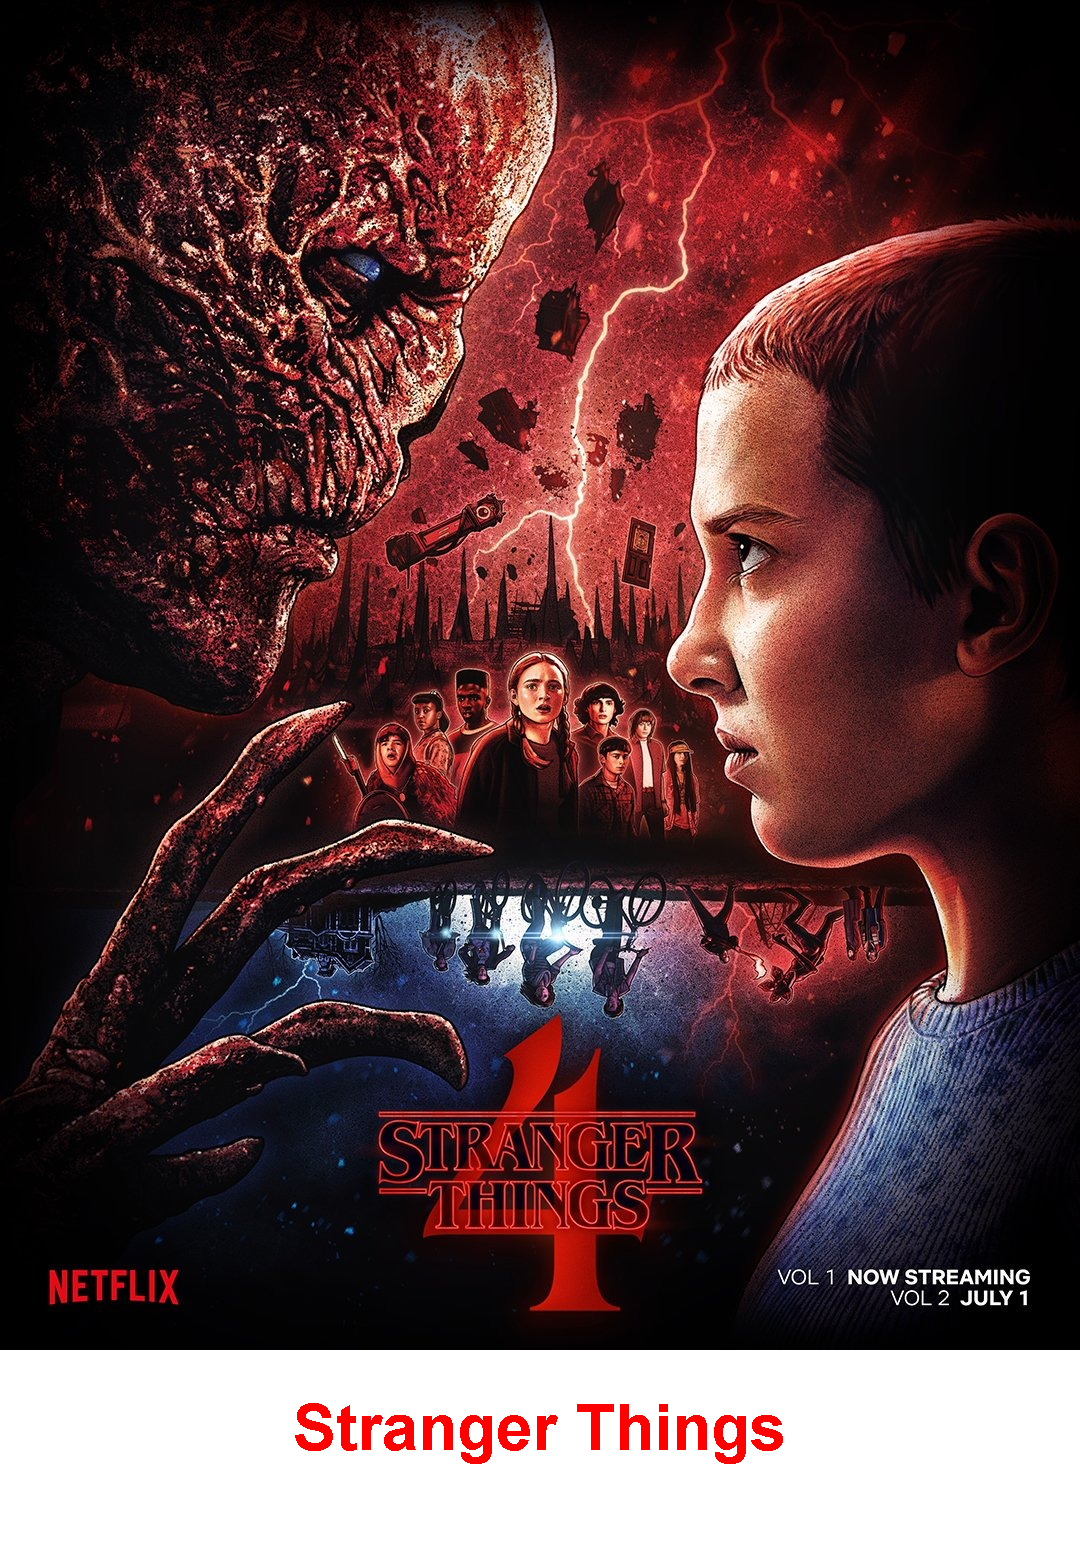
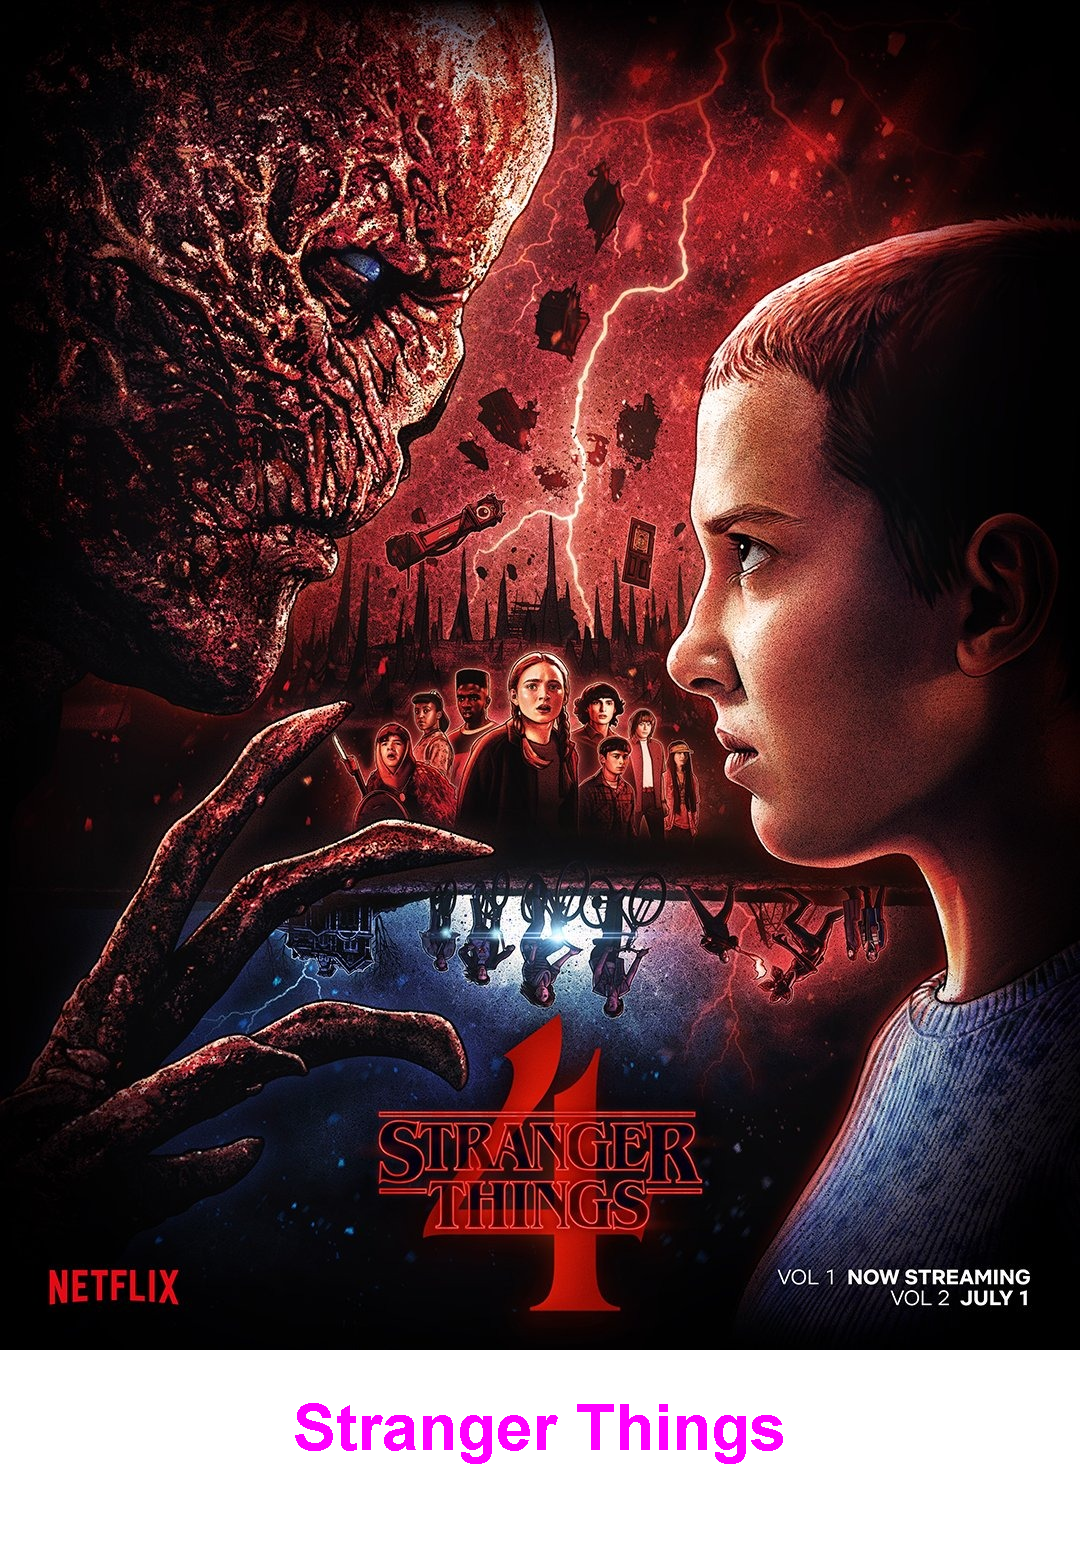
Update Aula 03 - OOP

Changed region(s): [[0.275, 0.8981, 0.7333, 0.96]]

diff --git a/src/App.java b/src/App.java
@@ -1,46 +1,43 @@
 import java.io.InputStream;
 import java.net.URL;
 import java.util.List;
-import java.util.Map;
 
 public class App {
     public static void main(String[] args) throws Exception {
         
-        String url = "https://raw.githubusercontent.com/alura-cursos/imersao-java-2-api/main/MostPopularTVs.json";
+        //String url = "https://raw.githubusercontent.com/alura-cursos/imersao-java-2-api/main/MostPopularTVs.json";
+        //String apiName = "IMDB";
+        String url = "https://raw.githubusercontent.com/alura-cursos/imersao-java-2-api/main/NASA-APOD.json";
+        String apiName = "NASA";
 
         // Conexão HTTP para buscar dados na API
-        var httpClient = new ClientHttp();
+        ClientHttp httpClient = new ClientHttp();
         String resquestedData = httpClient.requestData(url);
     
-        // Extrair dados desejados (título, poster, classificação)
-        JsonParser jsonParser = new JsonParser();
-        List<Map<String, String>> contentList = jsonParser.parse(resquestedData);
+        // Extrair dados desejados (título, imagem)
+        ContentExtractor extractor = new ContentExtractor();
+        List<Content> contents = extractor.extractContents(resquestedData, apiName);
 
         // Manipular e exibir os dados
 
         StickerGenerator stickerGenerator = new StickerGenerator();
 
-        for (Map<String,String> content : contentList) {
+        for (int i = 0; i < contents.size(); i++)
+        {
+            Content content = contents.get(i);
 
-            var rating = Float.parseFloat(content.get("imDbRating"));
-			String star = "";
-			for (int i = 0; i < rating; i++) {
-				star += "⭐";
-			}
-            
-            System.out.println(content.get("title"));
-            System.out.println(content.get("image"));
-            System.out.println(String.format("Rating: %.1f %s", rating, star));
+            System.out.println(content.getTitle());
+            System.out.println(content.getImageURL());
 
             // Gerar Sticker
-            String imageURL = (content.get("image"));
-            String stickerName = ((content.get("rank")) + "_" + (content.get("title")))
-                .replaceAll("\\s+","");
+            String imageURL = (content.getImageURL());
+            String stickerName = (i + 1) + "_" + ((content.getTitle())
+                .replaceAll("[^a-zA-Z]","")
+                .trim());
             InputStream imageInputStream = new URL(imageURL).openStream();;
-            String strickerText = (content.get("title"));
+            String strickerText = (content.getTitle());
 
-            stickerGenerator.create(stickerName, imageInputStream, strickerText);
-
+            stickerGenerator.create(stickerName, imageInputStream, strickerText, apiName);
         }
     }
 }

diff --git a/src/StickerGenerator.java b/src/StickerGenerator.java
@@ -14,7 +14,7 @@ import javax.imageio.ImageIO;
 
 public class StickerGenerator {
 
-    public void create(String stickerName, InputStream imageInputStream, String strickerText) throws IOException {
+    public void create(String stickerName, InputStream imageInputStream, String strickerText, String apiName) throws IOException {
 
         // leitura da imagem da URL
             //InputStream inputStream = 
@@ -32,20 +32,29 @@ public class StickerGenerator {
         Graphics2D graphics = (Graphics2D) newImage.getGraphics();
         graphics.drawImage(image, 0, 0, null);
 
+        // copiar "me.png" para nova imagem
+        BufferedImage imageMe = ImageIO.read(new File("src/assets/img/me.png"));
+        int yPositionMe = (imageHeight - imageMe.getHeight());
+        graphics.drawImage(imageMe, 0, yPositionMe, null);
+
         // configurar fonte
         Font strickerFont = new Font(Font.SANS_SERIF, Font.BOLD, 64);
-        graphics.setColor(Color.RED);
+        graphics.setColor(Color.MAGENTA);
         graphics.setFont(strickerFont);
 
         // escrever na nova imagem
         FontMetrics fm = graphics.getFontMetrics();
+        if(fm.stringWidth(strickerText) > imageWidth){
+            graphics.setFont(new Font(Font.SANS_SERIF, Font.BOLD, 40));
+            fm = graphics.getFontMetrics();
+        } //Diminui tamanho da fonte se width da string for maior do que a width da imagem
         int xPostion = (imageWidth - fm.stringWidth(strickerText)) / 2;
         int yPosition = imageHeight + ((newImageHeight - imageHeight) / 2);
         graphics.drawString(strickerText, xPostion, yPosition);
 
         // converter nova imagem em arquivo
-        String dirPath = String.format("output/imdb/%s.png", stickerName);
-        Files.createDirectories(Paths.get("output/imdb")); //Creates a new directory and parent directories that do not exist.
+        String dirPath = String.format("output/%s/%s.png", apiName, stickerName);
+        Files.createDirectories(Paths.get(String.format("output/%s", apiName))); //Creates a new directory and parent directories that do not exist.
         ImageIO.write(newImage, "png", new File(dirPath));
 
     }

diff --git a/src/ContentExtractor.java b/src/ContentExtractor.java
@@ -2,21 +2,22 @@ import java.util.ArrayList;
 import java.util.List;
 import java.util.Map;
 
-//generic content list
+public class ContentExtractor implements IContentExtractor {
 
-public class ContentExtractor {
+    private static final String API_NASA = "NASA";
+    private static final String API_IMDB = "IMDB";
     
-    public List<Content> extractContents(String json, String type) {
+    public List<Content> extractContents(String json, String apiName) {
 
         // Criar lista de conteúdos genéricos, para adaptar qualquer json (dados) para os padrões
         List<Content> genericContentList = new ArrayList<>();
 
-        if (type == "NASA") {
+        // Extrair dados desejados (título, poster, classificação) do json
+        JsonParser jsonParser = new JsonParser();
+        List<Map<String, String>> contentList = jsonParser.parse(json);
 
-            // Extrair dados desejados (título, poster, classificação) do json
-            JsonParser jsonParser = new JsonParser();
-            List<Map<String, String>> contentList = jsonParser.parse(json);
-
+        if (apiName == API_NASA)
+        {
             // Popular lista de conteúdos genérica
             for (Map<String,String> content : contentList) {
 
@@ -28,7 +29,24 @@ public class ContentExtractor {
                 genericContentList.add(genericContent);
 
             }
-            
+        }
+        else if (apiName == API_IMDB)
+        {
+            // Popular lista de conteúdos genérica
+            for (Map<String,String> content : contentList) {
+
+                String title = content.get("title");
+                String imageURL = content.get("image");
+
+                var genericContent = new Content(title, imageURL);
+
+                genericContentList.add(genericContent);
+
+            }
+        }
+        else
+        {
+            return null;
         }
 
         return genericContentList;

diff --git a/src/IContentExtractor.java b/src/IContentExtractor.java
@@ -1,0 +1,7 @@
+import java.util.List;
+
+public interface IContentExtractor {
+    
+    List<Content> extractContents(String json, String type);
+
+}
